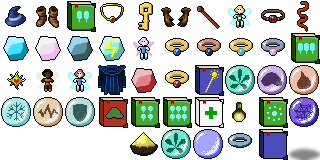
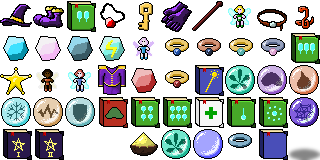
ADD New Items : Book of Magic I and II

diff --git a/src/PlayerEntity.cpp b/src/PlayerEntity.cpp
@@ -1512,7 +1512,7 @@ void PlayerEntity::castSpell()
 
   if (canCastSpell())
   {
-    activeSpell.delay = activeSpell.delayMax;
+    activeSpell.delay = equip[EQUIP_BOOK_MAGIC_I] ? activeSpell.delayMax * 0.8f : activeSpell.delayMax;
 
     switch (activeSpell.spell)
     {
@@ -1554,7 +1554,7 @@ void PlayerEntity::castTeleport()
   bool ok = false;
   int xm, ym;
   float xNew = x, yNew = y;
-  invincibleDelay = 2.0f;
+  invincibleDelay = equip[EQUIP_BOOK_MAGIC_II] ? 2.5f : 2.0f;
   SoundManager::getInstance().playSound(SOUND_TELEPORT);
   game().makeColorEffect(X_GAME_COLOR_VIOLET, 0.3f);
 
@@ -1650,7 +1650,7 @@ void PlayerEntity::castFireball()
 
   BoltEntity* bolt = new BoltEntity(x, y - 10, boltLifeTime + 0.5f, boltType, shotLevel);
 
-  int boltDamage = fireDamages * 3;
+  int boltDamage = fireDamages * (equip[EQUIP_BOOK_MAGIC_II] ? 4 : 3);
   bolt->setDamages(boltDamage);
   bolt->setGoThrough(true);
 
@@ -1667,7 +1667,7 @@ void PlayerEntity::castFreeze()
 {
   for (float i = 0.0f; i < 2 * PI; i +=  PI / 8)
   {
-    BoltEntity* bolt1 = new BoltEntity(x, y - 10, boltLifeTime, ShotTypeIce, 1);
+    BoltEntity* bolt1 = new BoltEntity(x, y - 10, boltLifeTime, ShotTypeIce, equip[EQUIP_BOOK_MAGIC_II] ? 2 : 1);
     bolt1->setDamages(1);
     float velx = fireVelocity * cos(i);
     float vely = fireVelocity * sin(i);
@@ -1681,7 +1681,7 @@ void PlayerEntity::castFreeze()
 void PlayerEntity::castEarthquake()
 {
   initFallingGrid();
-  for (int i = 0; i < 22; i++) fallRock();
+  for (int i = 0; i < equip[EQUIP_BOOK_MAGIC_II] ? 24 : 22; i++) fallRock();
 
   game().makeShake(0.25f);
   game().makeColorEffect(X_GAME_COLOR_BROWN, 0.3f);
@@ -1691,7 +1691,7 @@ void PlayerEntity::castEarthquake()
 void PlayerEntity::castProtection()
 {
   protection.active = true;
-  protection.value = 0.5f;
+  protection.value = equip[EQUIP_BOOK_MAGIC_II] ? 0.6f : 0.4f;
   protection.timer = 10.0f;
   computePlayer();
   game().makeColorEffect(X_GAME_COLOR_BLUE, 0.3f);
@@ -1701,7 +1701,8 @@ void PlayerEntity::castProtection()
 void PlayerEntity::castWeb()
 {
   SoundManager::getInstance().playSound(SOUND_SPIDER_WEB);
-  for (int i = 0; i < 3; i++)
+  int nbWeb = equip[EQUIP_BOOK_MAGIC_II] ? 4 : 3;
+  for (int i = 0; i < nbWeb; i++)
   {
     SpiderWebEntity* web = new SpiderWebEntity(x, y, true);
     float webVel = 100 + rand()% 500;

diff --git a/src/Items.h b/src/Items.h
@@ -119,6 +119,8 @@ enum enumItemType
   ItemBookRearShot,
   ItemBookRandomShot,
   ItemSpellWeb,
+  ItemBookMagicI,
+  ItemBookMagicII,
 
   NUMBER_ITEMS
 };
@@ -349,6 +351,14 @@ const itemStuct items[NUMBER_ITEMS] =
     ItemSpellWeb, "item_spell_web", "item_spell_web_desc",
     60, true, FamiliarNone, false, false, true, 1, RarityCommon, AlignmentNone, -1, ShotTypeStandard, SpellWeb
   },
+  {
+    ItemBookMagicI, "item_book_magic_i", "item_book_magic_i_desc",
+    30, true, FamiliarNone, true, true, true, 1, RarityRare, AlignmentNone, -1, ShotTypeStandard, SpellNone
+  },
+  {
+    ItemBookMagicII, "item_book_magic_ii", "item_book_magic_ii_desc",
+    30, true, FamiliarNone, true, true, true, 1, RarityRare, AlignmentNone, -1, ShotTypeStandard, SpellNone
+  },
 };
 
 /** Item equipment type enum
@@ -395,6 +405,8 @@ enum item_equip_enum {
   EQUIP_BOOK_REAR,
   EQUIP_BOOK_RANDOM,
   EQUIP_SPELL_WEB,
+  EQUIP_BOOK_MAGIC_I,
+  EQUIP_BOOK_MAGIC_II,
 
   NUMBER_EQUIP_ITEMS
   };

diff --git a/src/WitchBlastGame.cpp b/src/WitchBlastGame.cpp
@@ -1000,7 +1000,10 @@ void WitchBlastGame::renderRunningGame()
 
     if (player->getActiveSpell().spell != SpellNone)
     {
-      write(tools::getLabel(spellLabel[player->getActiveSpell().spell]), 14, 95, 663, ALIGN_LEFT, sf::Color::White, app, 0, 0);
+      oss.str("");
+      oss << tools::getLabel(spellLabel[player->getActiveSpell().spell]);
+      if (player->isEquiped(EQUIP_BOOK_MAGIC_II)) oss << "+";
+      write(oss.str(), 14, 95, 663, ALIGN_LEFT, sf::Color::White, app, 0, 0);
       // TODO
       sf::Sprite itemSprite;
       itemSprite.setTexture(*ImageManager::getInstance().getImage(IMAGE_ITEMS_EQUIP));

diff --git a/src/FallingRockEntity.cpp b/src/FallingRockEntity.cpp
@@ -59,7 +59,8 @@ void FallingRockEntity::collideWithEnemy(EnemyEntity* entity)
 {
   if (!hurtAll || hasHurted) return;
 
-  if (entity->hurt(meleeDamages * 1.5f, meleeType, 0, false, SourceTypeMelee, enemyType))
+  int damage = game().getPlayer()->isEquiped(EQUIP_BOOK_MAGIC_II) ? meleeDamages * 2.0f : meleeDamages * 1.5f;
+  if (entity->hurt(damage, meleeType, 0, false, SourceTypeMelee, enemyType))
   {
     float xs = (x + entity->getX()) / 2;
     float ys = (y + entity->getY()) / 2;

diff --git a/src/SlimeEntity.cpp b/src/SlimeEntity.cpp
@@ -363,7 +363,10 @@ void SlimeEntity::fire()
 
 void SlimeEntity::explode()
 {
-  new ExplosionEntity(x, y, ExplosionTypeStandard, isPet ? 18 : 12, enemyType);
+  int damage = 12;
+  if (isPet) damage = game().getPlayer()->isEquiped(EQUIP_BOOK_MAGIC_II) ? 24 : 18;
+
+  new ExplosionEntity(x, y, ExplosionTypeStandard, damage, enemyType);
   game().makeShake(1.0f);
   SoundManager::getInstance().playSound(SOUND_BOOM_00);
 }
